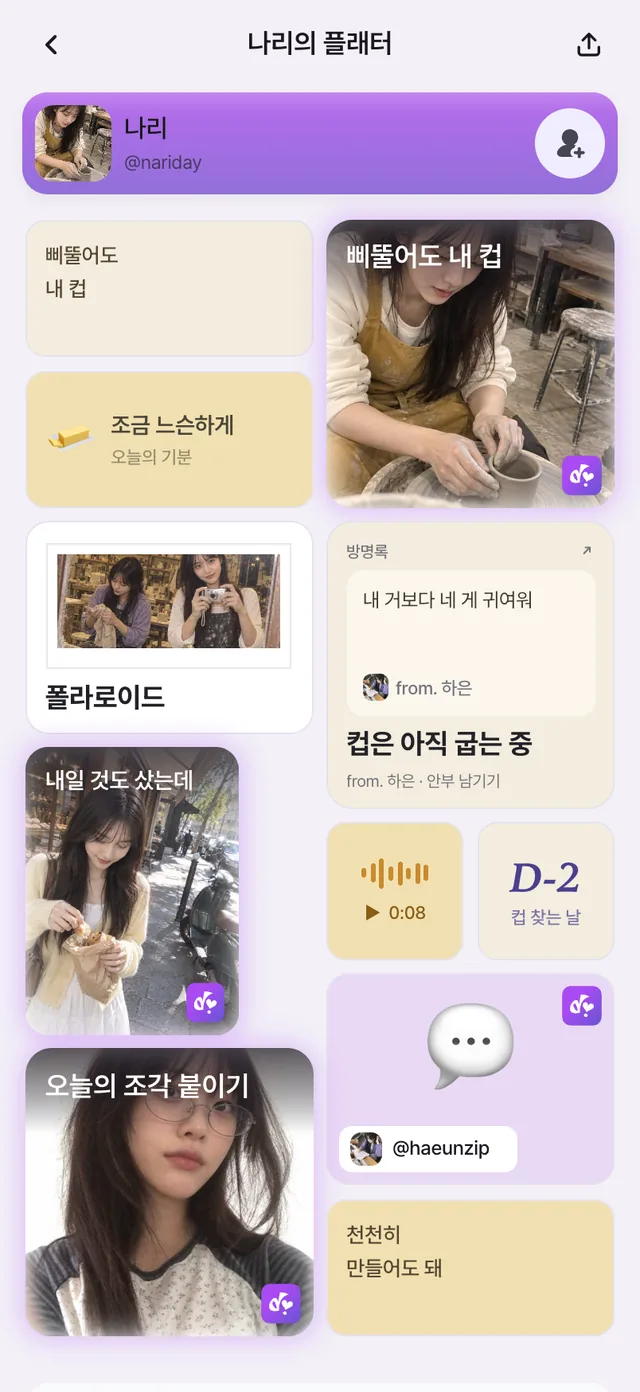
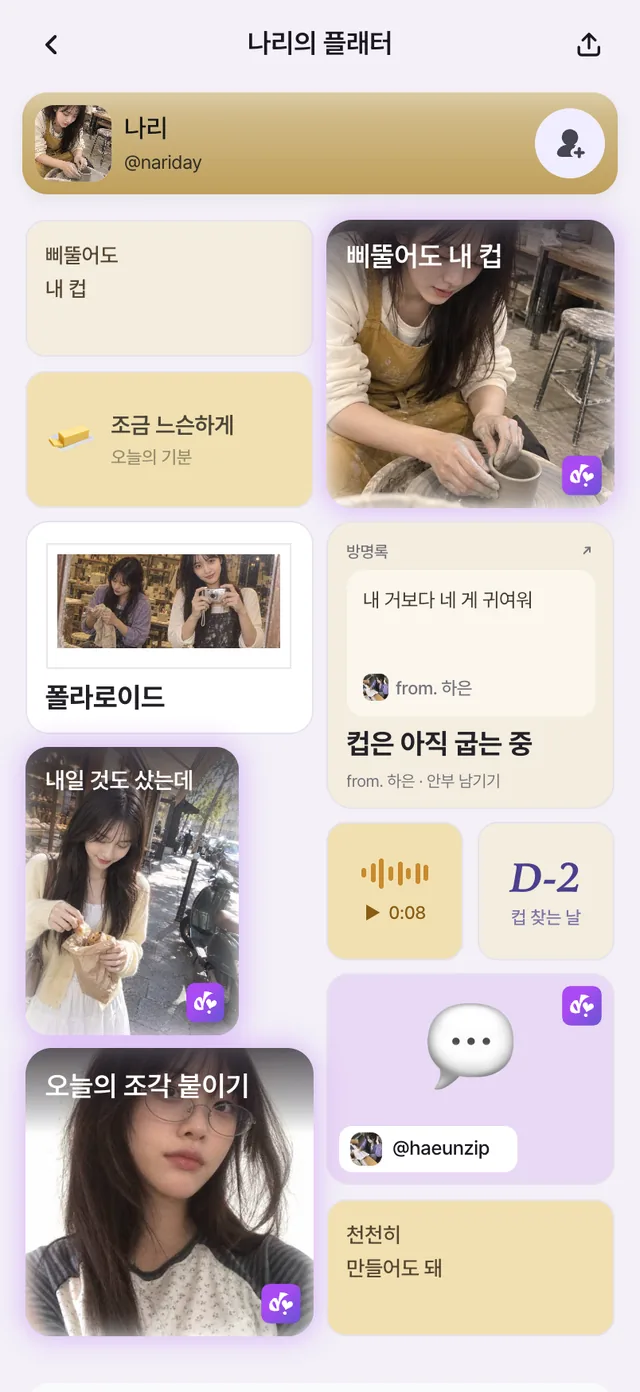
ditto.at 5.4 Rooms: 방 이미지·페르소나 카드를 각자의 핸들 색으로
- 10개 방 이미지를 다시 빌드한 /demo/{아이디}/ 에서 재캡처 (아이폰 17 402×874 @2x → 640×1392 webp),
  폰마다 그 사람의 ProfileHandle 색이 보인다
- 페르소나 카드 강조색(--c/--c2: 아바타 링·영문 이름·태그·디토 조각 칩·섹션 배경 틴트)을
  profiles.handle_color(Profile handle v2 위/아래 스톱)로 — 예전 샘플 색 대신
- 기본 틴트 #BDA6EB → 라벤더 #CAB7F2

Changed region(s): [[0.0312, 0.0618, 0.9688, 0.1545]]

diff --git a/index.html b/index.html
@@ -999,10 +999,10 @@ a.stkc:hover{transform:rotate(0deg) translateY(-2px);box-shadow:0 0 0 1px rgba(2
 }
 
 /* ---------- 5.4 rooms: centered opener + 3D fanned collection (iPhone 17 frames) + persona overview ---------- */
-@property --rc{syntax:'<color>';inherits:true;initial-value:#BDA6EB}
+@property --rc{syntax:'<color>';inherits:true;initial-value:#CAB7F2}
 /* iPhone 17 screen = 402 x 874 pt (1 : 2.174). Display corner ~55pt = 13.7% of width on device;
    here deliberately subtler: screen 7% of its width, frame = screen radius + thin bezel. */
-.rm{--rc:#BDA6EB;--pw:clamp(160px,min(17vw,29svh),244px);--bz:calc(var(--pw) * .012);--sr:calc((var(--pw) - var(--bz) * 2) * .07);
+.rm{--rc:#CAB7F2;--pw:clamp(160px,min(17vw,29svh),244px);--bz:calc(var(--pw) * .012);--sr:calc((var(--pw) - var(--bz) * 2) * .07);
   position:relative;isolation:isolate;padding:clamp(56px,7vw,104px) 0 clamp(48px,6vw,88px);transition:--rc .9s var(--ease)}
 /* soft full-bleed backdrop (body clips x-overflow) */
 .rm::before{content:"";position:absolute;z-index:-1;top:0;bottom:0;left:calc(50% - 50vw);right:calc(50% - 50vw);pointer-events:none;
@@ -1015,7 +1015,7 @@ a.stkc:hover{transform:rotate(0deg) translateY(-2px);box-shadow:0 0 0 1px rgba(2
 /* stage: no-JS / reduced motion = horizontal scroll strip */
 .rm-fan{position:relative;margin-inline:calc(var(--gut) * -1)}
 .rm-track{list-style:none;margin:0;padding:8px var(--gut) 18px;display:flex;gap:18px;overflow-x:auto;scroll-snap-type:x mandatory;scroll-padding-inline:var(--gut);overscroll-behavior-x:contain;scrollbar-width:thin;scrollbar-color:rgba(138,63,184,.3) transparent}
-.rm-card{--c:#BDA6EB;--c2:#AB8FEB;flex:0 0 auto;width:var(--pw);scroll-snap-align:center;min-width:0}
+.rm-card{--c:#CAB7F2;--c2:#B092ED;flex:0 0 auto;width:var(--pw);scroll-snap-align:center;min-width:0}
 .rm-ph{display:block;width:100%;padding:var(--bz);border:0;margin:0;font:inherit;color:inherit;cursor:pointer;position:relative;border-radius:calc(var(--sr) + var(--bz));background:#1B1720;
   box-shadow:inset 0 0 0 1px rgba(255,255,255,.14),0 0 0 1px rgba(22,18,27,.1),0 36px 56px -34px color-mix(in srgb,var(--c2) 75%,#2A0D40),0 14px 24px -20px rgba(70,20,100,.35)}
 .rm-scr{display:block;aspect-ratio:402/874;overflow:hidden;border-radius:var(--sr);background:#F3F0F7}
@@ -1544,7 +1544,7 @@ a.stkc:hover{transform:rotate(0deg) translateY(-2px);box-shadow:0 0 0 1px rgba(2
         </header>
         <div class="rm-fan" role="group" aria-roledescription="carousel" aria-label="친구들의 방. 좌우 화살표 키로 넘길 수 있어요.">
           <ol class="rm-track">
-          <li class="rm-card" id="room-haeun" style="--c:#BDA6EB;--c2:#AB8FEB">
+          <li class="rm-card" id="room-haeun" style="--c:#CAB7F2;--c2:#B092ED">
             <button type="button" class="rm-ph" aria-pressed="true" aria-label="하은의 방, 일단 한 장부터"><span class="rm-scr"><img src="assets/rooms/room-01-haeun.webp" alt="하은의 플래터 첫 화면. 창가 자리 사진, “일단 한 장부터” 문장, 조금 익숙해지는 중이라는 기분, 나리와 찍은 사진, 나리에게서 디토한 말풍선이 보여요." loading="lazy" decoding="async" draggable="false" width="640" height="1392"></span><span class="dim"></span></button>
             <article class="rm-pf" aria-label="하은의 페르소나">
               <div class="rm-pf-l">
@@ -1561,7 +1561,7 @@ a.stkc:hover{transform:rotate(0deg) translateY(-2px);box-shadow:0 0 0 1px rgba(2
               <div class="rm-pf-foot"><p class="rm-pf-from"><img src="assets/rooms/rav-nari.webp" alt="" width="26" height="26" loading="lazy" decoding="async"><span><small>디토로 가져온 조각</small>나리의 문장 <q>천천히 만들어도 돼</q></span></p><a class="rm-pf-go" href="/demo/haeunzip/">하은의 플래터 보기 ↗</a></div>
             </article>
           </li>
-          <li class="rm-card" id="room-jun" style="--c:#919FAD;--c2:#738698">
+          <li class="rm-card" id="room-jun" style="--c:#A8B3BF;--c2:#79899B">
             <button type="button" class="rm-ph" aria-pressed="false" aria-label="준의 방, 일단 들어와 봄"><span class="rm-scr"><img src="assets/rooms/room-02-jun.webp" alt="준의 플래터 첫 화면. 복학 4일차 사진, 초대받고 일단 왔다는 문장, 가입 D+7, 공강 상태, 바다 사진, 지금 듣는 라디오, 재민에게서 디토한 한 줄 일기가 보여요." loading="lazy" decoding="async" draggable="false" width="640" height="1392"></span><span class="dim"></span></button>
             <article class="rm-pf" aria-label="준의 페르소나">
               <div class="rm-pf-l">
@@ -1578,7 +1578,7 @@ a.stkc:hover{transform:rotate(0deg) translateY(-2px);box-shadow:0 0 0 1px rgba(2
               <div class="rm-pf-foot"><p class="rm-pf-from"><img src="assets/rooms/rav-jaemin.webp" alt="" width="26" height="26" loading="lazy" decoding="async"><span><small>디토로 가져온 조각</small>재민의 한 줄 일기 <q>돌아오는 기차에서는 말을 조금 덜 했다.</q></span></p><a class="rm-pf-go" href="/demo/junishere/">준의 플래터 보기 ↗</a></div>
             </article>
           </li>
-          <li class="rm-card" id="room-sora" style="--c:#B4C779;--c2:#A4BC53">
+          <li class="rm-card" id="room-sora" style="--c:#C5D593;--c2:#A5BE57">
             <button type="button" class="rm-ph" aria-pressed="false" aria-label="소라의 방, 별일 없어도 모여"><span class="rm-scr"><img src="assets/rooms/room-03-sora.webp" alt="소라의 플래터 첫 화면. 폴라로이드, 말차 셀카, “별일 없어도 모여” 문장, 지우에게서 디토한 노래, 지우의 방명록이 보여요." loading="lazy" decoding="async" draggable="false" width="640" height="1392"></span><span class="dim"></span></button>
             <article class="rm-pf" aria-label="소라의 페르소나">
               <div class="rm-pf-l">
@@ -1595,7 +1595,7 @@ a.stkc:hover{transform:rotate(0deg) translateY(-2px);box-shadow:0 0 0 1px rgba(2
               <div class="rm-pf-foot"><p class="rm-pf-from"><img src="assets/rooms/rav-jiu.webp" alt="" width="26" height="26" loading="lazy" decoding="async"><span><small>디토로 가져온 조각</small>지우의 노래 <q>Perfect Night</q></span></p><a class="rm-pf-go" href="/demo/soramaybe/">소라의 플래터 보기 ↗</a></div>
             </article>
           </li>
-          <li class="rm-card" id="room-jaemin" style="--c:#6794A3;--c2:#3D798A">
+          <li class="rm-card" id="room-jaemin" style="--c:#8FB2BD;--c2:#5C8F9F">
             <button type="button" class="rm-ph" aria-pressed="false" aria-label="재민의 방, 토요일의 잔상"><span class="rm-scr"><img src="assets/rooms/room-04-jaemin.webp" alt="재민의 플래터 첫 화면. 바다 보러 간 토요일 사진, D+15, 카메라 사진, 기차 한 줄 일기, 동해 장소, 날씨, 창가 사진, 잔나비 노래, 도현의 방명록이 보여요." loading="lazy" decoding="async" draggable="false" width="640" height="1392"></span><span class="dim"></span></button>
             <article class="rm-pf" aria-label="재민의 페르소나">
               <div class="rm-pf-l">
@@ -1612,7 +1612,7 @@ a.stkc:hover{transform:rotate(0deg) translateY(-2px);box-shadow:0 0 0 1px rgba(2
               <div class="rm-pf-foot"><p class="rm-pf-from"><img src="assets/rooms/rav-dohyun.webp" alt="" width="26" height="26" loading="lazy" decoding="async"><span><small>디토로 가져온 조각</small>도현의 문장 <q>금요일, 한 자리 더</q></span></p><a class="rm-pf-go" href="/demo/jaeminarchive/">재민의 플래터 보기 ↗</a></div>
             </article>
           </li>
-          <li class="rm-card" id="room-nari" style="--c:#C9B17C;--c2:#BB9E5A">
+          <li class="rm-card" id="room-nari" style="--c:#D5C194;--c2:#BF9F5B">
             <button type="button" class="rm-ph" aria-pressed="false" aria-label="나리의 방, 삐뚤어도 내 컵"><span class="rm-scr"><img src="assets/rooms/room-05-nari.webp" alt="나리의 플래터 첫 화면. “삐뚤어도 내 컵” 문장과 도자기 사진, 조금 느슨한 기분, 폴라로이드, 하은의 방명록, 음성 메모가 보여요." loading="lazy" decoding="async" draggable="false" width="640" height="1392"></span><span class="dim"></span></button>
             <article class="rm-pf" aria-label="나리의 페르소나">
               <div class="rm-pf-l">
@@ -1629,7 +1629,7 @@ a.stkc:hover{transform:rotate(0deg) translateY(-2px);box-shadow:0 0 0 1px rgba(2
               <div class="rm-pf-foot"><p class="rm-pf-from"><img src="assets/rooms/rav-haeun.webp" alt="" width="26" height="26" loading="lazy" decoding="async"><span><small>디토로 가져온 조각</small>하은의 문장 <q>일단 한 장부터</q></span></p><a class="rm-pf-go" href="/demo/nariday/">나리의 플래터 보기 ↗</a></div>
             </article>
           </li>
-          <li class="rm-card" id="room-dohyun" style="--c:#E09673;--c2:#E07A4F">
+          <li class="rm-card" id="room-dohyun" style="--c:#EDAE91;--c2:#E07B4C">
             <button type="button" class="rm-ph" aria-pressed="false" aria-label="도현의 방, 금요일, 한 자리 더"><span class="rm-scr"><img src="assets/rooms/room-06-dohyun.webp" alt="도현의 플래터 첫 화면. 오늘 처음 만난 셋 사진, 같이 놀자 상태, “금요일, 한 자리 더” 문장, 준의 방명록, 동네 장소, 날씨가 보여요." loading="lazy" decoding="async" draggable="false" width="640" height="1392"></span><span class="dim"></span></button>
             <article class="rm-pf" aria-label="도현의 페르소나">
               <div class="rm-pf-l">
@@ -1646,7 +1646,7 @@ a.stkc:hover{transform:rotate(0deg) translateY(-2px);box-shadow:0 0 0 1px rgba(2
               <div class="rm-pf-foot"><p class="rm-pf-from"><img src="assets/rooms/rav-jaemin.webp" alt="" width="26" height="26" loading="lazy" decoding="async"><span><small>디토로 가져온 조각</small>재민의 노래 <q>주저하는 연인들을 위해</q></span></p><a class="rm-pf-go" href="/demo/dohyunlinks/">도현의 플래터 보기 ↗</a></div>
             </article>
           </li>
-          <li class="rm-card" id="room-jiu" style="--c:#E698B5;--c2:#E67DA3">
+          <li class="rm-card" id="room-jiu" style="--c:#EEAFC7;--c2:#E37CA2">
             <button type="button" class="rm-ph" aria-pressed="false" aria-label="지우의 방, 한 번 더, 같이"><span class="rm-scr"><img src="assets/rooms/room-07-jiu.webp" alt="지우의 플래터 첫 화면. 연습실 사진, 폴라로이드, 텐션 과다 기분, 소라에게서 디토한 말풍선, 음성 메모, 꽃 사진이 보여요." loading="lazy" decoding="async" draggable="false" width="640" height="1392"></span><span class="dim"></span></button>
             <article class="rm-pf" aria-label="지우의 페르소나">
               <div class="rm-pf-l">
@@ -1663,7 +1663,7 @@ a.stkc:hover{transform:rotate(0deg) translateY(-2px);box-shadow:0 0 0 1px rgba(2
               <div class="rm-pf-foot"><p class="rm-pf-from"><img src="assets/rooms/rav-sora.webp" alt="" width="26" height="26" loading="lazy" decoding="async"><span><small>디토로 가져온 조각</small>소라의 문장 <q>별일 없어도 모여</q></span></p><a class="rm-pf-go" href="/demo/jiuallday/">지우의 플래터 보기 ↗</a></div>
             </article>
           </li>
-          <li class="rm-card" id="room-seoyun" style="--c:#9CA88C;--c2:#85936F">
+          <li class="rm-card" id="room-seoyun" style="--c:#B3BDA6;--c2:#85946F">
             <button type="button" class="rm-ph" aria-pressed="false" aria-label="서윤의 방, 이번 주는 올리브"><span class="rm-scr"><img src="assets/rooms/room-08-seoyun.webp" alt="서윤의 플래터 첫 화면. 이번 주 수집한 빛 사진, 작은 책장 컬렉션, 수집 중 상태, 전시 플레이리스트, 벽 색 사진, 날씨가 보여요." loading="lazy" decoding="async" draggable="false" width="640" height="1392"></span><span class="dim"></span></button>
             <article class="rm-pf" aria-label="서윤의 페르소나">
               <div class="rm-pf-l">
@@ -1680,7 +1680,7 @@ a.stkc:hover{transform:rotate(0deg) translateY(-2px);box-shadow:0 0 0 1px rgba(2
               <div class="rm-pf-foot"><p class="rm-pf-from"><img src="assets/rooms/rav-yeseo.webp" alt="" width="26" height="26" loading="lazy" decoding="async"><span><small>디토로 가져온 조각</small>예서의 문장 <q>빛 좋은 날을 모아</q></span></p><a class="rm-pf-go" href="/demo/seoyunpalette/">서윤의 플래터 보기 ↗</a></div>
             </article>
           </li>
-          <li class="rm-card" id="room-rian" style="--c:#93889A;--c2:#776A83">
+          <li class="rm-card" id="room-rian" style="--c:#B5ADBA;--c2:#908498">
             <button type="button" class="rm-ph" aria-pressed="false" aria-label="리안의 방, AFTER TEN"><span class="rm-scr"><img src="assets/rooms/room-09-rian.webp" alt="리안의 플래터 첫 화면. SZA 노래, 심야 취향 사진, “낮보다 밤이 편해” 문장, 밤 10시 사진, 귀가 중 한 줄 일기, 음성 메모가 보여요." loading="lazy" decoding="async" draggable="false" width="640" height="1392"></span><span class="dim"></span></button>
             <article class="rm-pf" aria-label="리안의 페르소나">
               <div class="rm-pf-l">
@@ -1697,7 +1697,7 @@ a.stkc:hover{transform:rotate(0deg) translateY(-2px);box-shadow:0 0 0 1px rgba(2
               <div class="rm-pf-foot"><p class="rm-pf-from"><img src="assets/rooms/rav-seoyun.webp" alt="" width="26" height="26" loading="lazy" decoding="async"><span><small>디토로 가져온 조각</small>서윤의 문장 <q>이번 주는 올리브</q></span></p><a class="rm-pf-go" href="/demo/rianafterdark/">리안의 플래터 보기 ↗</a></div>
             </article>
           </li>
-          <li class="rm-card" id="room-yeseo" style="--c:#95C7DA;--c2:#79BBD3">
+          <li class="rm-card" id="room-yeseo" style="--c:#ADD5E5;--c2:#79BBD4">
             <button type="button" class="rm-ph" aria-pressed="false" aria-label="예서의 방, 빛 좋은 날을 모아"><span class="rm-scr"><img src="assets/rooms/room-10-yeseo.webp" alt="예서의 플래터 첫 화면. 디카 사진, “빛 좋은 날을 모아” 문장, 서점과 흐린 날 사진, 폴라로이드, 카메라 스티커, 리안에게서 디토한 노래가 보여요." loading="lazy" decoding="async" draggable="false" width="640" height="1392"></span><span class="dim"></span></button>
             <article class="rm-pf" aria-label="예서의 페르소나">
               <div class="rm-pf-l">
@@ -2442,7 +2442,7 @@ a.stkc:hover{transform:rotate(0deg) translateY(-2px);box-shadow:0 0 0 1px rgba(2
       shown = i;
       btns.forEach(function (b, k) { var on = k === i; b.setAttribute('aria-pressed', on ? 'true' : 'false'); b.tabIndex = on ? 0 : -1; });
       pfs.forEach(function (p, k) { var on = k === i; p.classList.toggle('is-on', on); p.setAttribute('aria-hidden', on ? 'false' : 'true'); });
-      rm.style.setProperty('--rc', getComputedStyle(cards[i]).getPropertyValue('--c').trim() || '#BDA6EB');
+      rm.style.setProperty('--rc', getComputedStyle(cards[i]).getPropertyValue('--c').trim() || '#CAB7F2');
     }
     if (focus) btns[i].focus({ preventScroll: true });
   }
